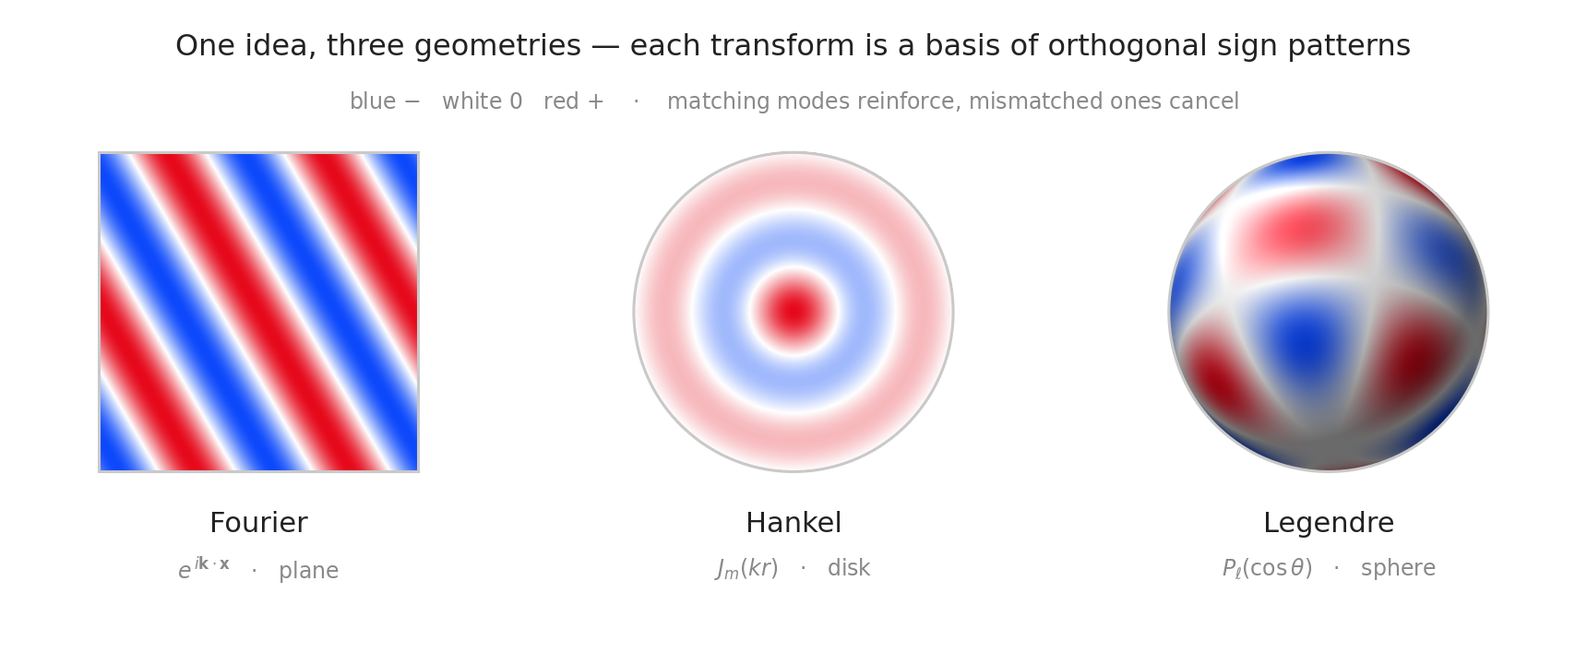
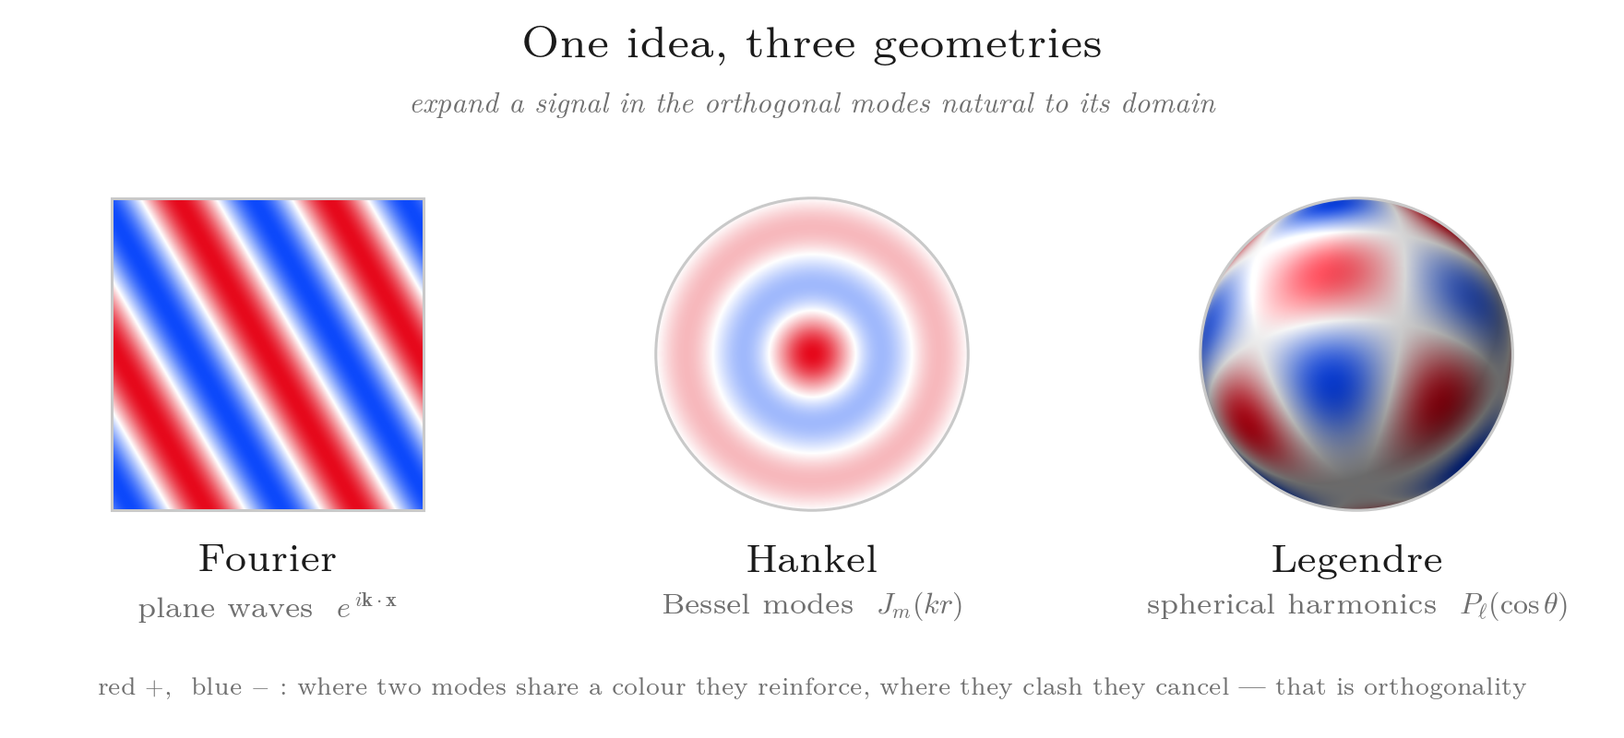
Polish spectral-transforms schematic: LaTeX fonts + richer captions
Use Latin Modern Roman text with Computer Modern math (mathtext cm) so the
kernels render crisply; name each basis family (plane waves / Bessel modes /
spherical harmonics) and reword the title, subtitle, and sign key.

Claude-Session: https://claude.ai/code/session_013g6Jis2ksDyqM4YC8tx1nv

diff --git a/docs/chap3.html b/docs/chap3.html
@@ -700,65 +700,70 @@ S_x(f) = \int_{-\infty}^{\infty} R_x(\tau)\,e^{-j 2\pi f \tau}\,d\tau
 <div class="code-copy-outer-scaffold"><div class="sourceCode" id="cb3"><pre class="sourceCode python code-with-copy"><code class="sourceCode python"><span id="cb3-1"><a href="#cb3-1" aria-hidden="true" tabindex="-1"></a><span class="im">from</span> matplotlib.colors <span class="im">import</span> LinearSegmentedColormap</span>
 <span id="cb3-2"><a href="#cb3-2" aria-hidden="true" tabindex="-1"></a><span class="im">from</span> scipy.special <span class="im">import</span> jn, jn_zeros, sph_harm</span>
 <span id="cb3-3"><a href="#cb3-3" aria-hidden="true" tabindex="-1"></a></span>
-<span id="cb3-4"><a href="#cb3-4" aria-hidden="true" tabindex="-1"></a><span class="co"># diverging map from the bright cycle: blue (0d49fb) &lt;-&gt; white &lt;-&gt; red (e6091c)</span></span>
-<span id="cb3-5"><a href="#cb3-5" aria-hidden="true" tabindex="-1"></a>cmap <span class="op">=</span> LinearSegmentedColormap.from_list(</span>
-<span id="cb3-6"><a href="#cb3-6" aria-hidden="true" tabindex="-1"></a>    <span class="st">'bwr2'</span>, [<span class="st">'#0d49fb'</span>, <span class="st">'#8aa9fc'</span>, <span class="st">'#ffffff'</span>, <span class="st">'#f28a91'</span>, <span class="st">'#e6091c'</span>])</span>
-<span id="cb3-7"><a href="#cb3-7" aria-hidden="true" tabindex="-1"></a>INK, FRAME <span class="op">=</span> <span class="st">'#222222'</span>, <span class="st">'#c9c9c9'</span></span>
-<span id="cb3-8"><a href="#cb3-8" aria-hidden="true" tabindex="-1"></a></span>
-<span id="cb3-9"><a href="#cb3-9" aria-hidden="true" tabindex="-1"></a><span class="kw">def</span> caption(ax, name, kern):</span>
-<span id="cb3-10"><a href="#cb3-10" aria-hidden="true" tabindex="-1"></a>    ax.text(<span class="fl">0.5</span>, <span class="op">-</span><span class="fl">0.10</span>, name, transform<span class="op">=</span>ax.transAxes, ha<span class="op">=</span><span class="st">'center'</span>, va<span class="op">=</span><span class="st">'top'</span>,</span>
-<span id="cb3-11"><a href="#cb3-11" aria-hidden="true" tabindex="-1"></a>            fontsize<span class="op">=</span><span class="dv">12</span>, color<span class="op">=</span>INK, fontweight<span class="op">=</span><span class="st">'medium'</span>)</span>
-<span id="cb3-12"><a href="#cb3-12" aria-hidden="true" tabindex="-1"></a>    ax.text(<span class="fl">0.5</span>, <span class="op">-</span><span class="fl">0.235</span>, kern, transform<span class="op">=</span>ax.transAxes, ha<span class="op">=</span><span class="st">'center'</span>, va<span class="op">=</span><span class="st">'top'</span>,</span>
-<span id="cb3-13"><a href="#cb3-13" aria-hidden="true" tabindex="-1"></a>            fontsize<span class="op">=</span><span class="dv">9</span>, color<span class="op">=</span><span class="st">'#8a8377'</span>)</span>
-<span id="cb3-14"><a href="#cb3-14" aria-hidden="true" tabindex="-1"></a></span>
-<span id="cb3-15"><a href="#cb3-15" aria-hidden="true" tabindex="-1"></a><span class="co"># an orthographic, Lambert-shaded sphere coloured by a real spherical harmonic</span></span>
-<span id="cb3-16"><a href="#cb3-16" aria-hidden="true" tabindex="-1"></a><span class="kw">def</span> shaded_sphere(l, m, tilt<span class="op">=-</span><span class="dv">58</span>, azim<span class="op">=</span><span class="dv">18</span>, npix<span class="op">=</span><span class="dv">620</span>, light<span class="op">=</span>(<span class="op">-</span><span class="fl">0.45</span>, <span class="fl">0.6</span>, <span class="fl">0.78</span>)):</span>
-<span id="cb3-17"><a href="#cb3-17" aria-hidden="true" tabindex="-1"></a>    g <span class="op">=</span> np.linspace(<span class="op">-</span><span class="dv">1</span>, <span class="dv">1</span>, npix)<span class="op">;</span> X, Y <span class="op">=</span> np.meshgrid(g, g)</span>
-<span id="cb3-18"><a href="#cb3-18" aria-hidden="true" tabindex="-1"></a>    inside <span class="op">=</span> X<span class="op">**</span><span class="dv">2</span> <span class="op">+</span> Y<span class="op">**</span><span class="dv">2</span> <span class="op">&lt;=</span> <span class="fl">1.0</span></span>
-<span id="cb3-19"><a href="#cb3-19" aria-hidden="true" tabindex="-1"></a>    Z <span class="op">=</span> np.sqrt(np.clip(<span class="dv">1</span> <span class="op">-</span> X<span class="op">**</span><span class="dv">2</span> <span class="op">-</span> Y<span class="op">**</span><span class="dv">2</span>, <span class="dv">0</span>, <span class="dv">1</span>))</span>
-<span id="cb3-20"><a href="#cb3-20" aria-hidden="true" tabindex="-1"></a>    t, az <span class="op">=</span> np.deg2rad(tilt), np.deg2rad(azim)</span>
-<span id="cb3-21"><a href="#cb3-21" aria-hidden="true" tabindex="-1"></a>    cx, sx, cz, sz <span class="op">=</span> np.cos(t), np.sin(t), np.cos(az), np.sin(az)</span>
-<span id="cb3-22"><a href="#cb3-22" aria-hidden="true" tabindex="-1"></a>    y1, z1 <span class="op">=</span> cx<span class="op">*</span>Y <span class="op">-</span> sx<span class="op">*</span>Z, sx<span class="op">*</span>Y <span class="op">+</span> cx<span class="op">*</span>Z                       <span class="co"># Rx(tilt)</span></span>
-<span id="cb3-23"><a href="#cb3-23" aria-hidden="true" tabindex="-1"></a>    sX, sY, sZ <span class="op">=</span> cz<span class="op">*</span>X <span class="op">-</span> sz<span class="op">*</span>y1, sz<span class="op">*</span>X <span class="op">+</span> cz<span class="op">*</span>y1, z1             <span class="co"># Rz(azim)</span></span>
-<span id="cb3-24"><a href="#cb3-24" aria-hidden="true" tabindex="-1"></a>    Yv <span class="op">=</span> sph_harm(m, l, np.arctan2(sY, sX), np.arccos(np.clip(sZ, <span class="op">-</span><span class="dv">1</span>, <span class="dv">1</span>))).real</span>
-<span id="cb3-25"><a href="#cb3-25" aria-hidden="true" tabindex="-1"></a>    Yn <span class="op">=</span> Yv<span class="op">/</span>np.nanmax(np.<span class="bu">abs</span>(np.where(inside, Yv, np.nan)))</span>
-<span id="cb3-26"><a href="#cb3-26" aria-hidden="true" tabindex="-1"></a>    rgb <span class="op">=</span> cmap(<span class="fl">0.5</span><span class="op">*</span>(Yn <span class="op">+</span> <span class="dv">1</span>))[..., :<span class="dv">3</span>]</span>
-<span id="cb3-27"><a href="#cb3-27" aria-hidden="true" tabindex="-1"></a>    L <span class="op">=</span> np.array(light)<span class="op">/</span>np.linalg.norm(light)</span>
-<span id="cb3-28"><a href="#cb3-28" aria-hidden="true" tabindex="-1"></a>    diff <span class="op">=</span> np.clip(X<span class="op">*</span>L[<span class="dv">0</span>] <span class="op">+</span> Y<span class="op">*</span>L[<span class="dv">1</span>] <span class="op">+</span> Z<span class="op">*</span>L[<span class="dv">2</span>], <span class="dv">0</span>, <span class="dv">1</span>)           <span class="co"># Lambert + soft specular</span></span>
-<span id="cb3-29"><a href="#cb3-29" aria-hidden="true" tabindex="-1"></a>    rgb <span class="op">=</span> rgb<span class="op">*</span>(<span class="fl">0.40</span> <span class="op">+</span> <span class="fl">0.60</span><span class="op">*</span>diff)[..., <span class="va">None</span>] <span class="op">+</span> (diff<span class="op">**</span><span class="dv">22</span><span class="op">*</span><span class="fl">0.18</span>)[..., <span class="va">None</span>]</span>
-<span id="cb3-30"><a href="#cb3-30" aria-hidden="true" tabindex="-1"></a>    <span class="cf">return</span> np.dstack([np.clip(rgb, <span class="dv">0</span>, <span class="dv">1</span>), inside.astype(<span class="bu">float</span>)])</span>
-<span id="cb3-31"><a href="#cb3-31" aria-hidden="true" tabindex="-1"></a></span>
-<span id="cb3-32"><a href="#cb3-32" aria-hidden="true" tabindex="-1"></a>plt.close()</span>
-<span id="cb3-33"><a href="#cb3-33" aria-hidden="true" tabindex="-1"></a>fig <span class="op">=</span> plt.figure(figsize<span class="op">=</span>(<span class="fl">8.6</span>, <span class="fl">3.6</span>), dpi<span class="op">=</span><span class="dv">150</span>)</span>
-<span id="cb3-34"><a href="#cb3-34" aria-hidden="true" tabindex="-1"></a>gs <span class="op">=</span> fig.add_gridspec(<span class="dv">1</span>, <span class="dv">3</span>, wspace<span class="op">=</span><span class="fl">0.14</span>, left<span class="op">=</span><span class="fl">0.015</span>, right<span class="op">=</span><span class="fl">0.985</span>, top<span class="op">=</span><span class="fl">0.78</span>, bottom<span class="op">=</span><span class="fl">0.28</span>)</span>
-<span id="cb3-35"><a href="#cb3-35" aria-hidden="true" tabindex="-1"></a>ax <span class="op">=</span> [fig.add_subplot(gs[<span class="dv">0</span>, i]) <span class="cf">for</span> i <span class="kw">in</span> <span class="bu">range</span>(<span class="dv">3</span>)]</span>
-<span id="cb3-36"><a href="#cb3-36" aria-hidden="true" tabindex="-1"></a>g <span class="op">=</span> np.linspace(<span class="op">-</span><span class="dv">1</span>, <span class="dv">1</span>, <span class="dv">600</span>)<span class="op">;</span> X, Y <span class="op">=</span> np.meshgrid(g, g)<span class="op">;</span> R <span class="op">=</span> np.hypot(X, Y)</span>
-<span id="cb3-37"><a href="#cb3-37" aria-hidden="true" tabindex="-1"></a>imkw <span class="op">=</span> <span class="bu">dict</span>(extent<span class="op">=</span>[<span class="op">-</span><span class="dv">1</span>, <span class="dv">1</span>, <span class="op">-</span><span class="dv">1</span>, <span class="dv">1</span>], origin<span class="op">=</span><span class="st">'lower'</span>, cmap<span class="op">=</span>cmap, vmin<span class="op">=-</span><span class="dv">1</span>, vmax<span class="op">=</span><span class="dv">1</span>)</span>
-<span id="cb3-38"><a href="#cb3-38" aria-hidden="true" tabindex="-1"></a>sq <span class="op">=</span> <span class="kw">lambda</span> a: a.add_patch(plt.Rectangle((<span class="op">-</span><span class="dv">1</span>, <span class="op">-</span><span class="dv">1</span>), <span class="dv">2</span>, <span class="dv">2</span>, fill<span class="op">=</span><span class="va">False</span>, ec<span class="op">=</span>FRAME, lw<span class="op">=</span><span class="fl">1.3</span>))</span>
-<span id="cb3-39"><a href="#cb3-39" aria-hidden="true" tabindex="-1"></a>ci <span class="op">=</span> <span class="kw">lambda</span> a, lw<span class="op">=</span><span class="fl">1.3</span>: a.add_patch(plt.Circle((<span class="dv">0</span>, <span class="dv">0</span>), <span class="dv">1</span>, fill<span class="op">=</span><span class="va">False</span>, ec<span class="op">=</span>FRAME, lw<span class="op">=</span>lw))</span>
-<span id="cb3-40"><a href="#cb3-40" aria-hidden="true" tabindex="-1"></a></span>
-<span id="cb3-41"><a href="#cb3-41" aria-hidden="true" tabindex="-1"></a><span class="co"># (1) Fourier — plane wave on a square (the plane)</span></span>
-<span id="cb3-42"><a href="#cb3-42" aria-hidden="true" tabindex="-1"></a>a <span class="op">=</span> np.deg2rad(<span class="dv">30</span>)</span>
-<span id="cb3-43"><a href="#cb3-43" aria-hidden="true" tabindex="-1"></a>ax[<span class="dv">0</span>].imshow(np.cos(<span class="fl">7.5</span><span class="op">*</span>(X<span class="op">*</span>np.cos(a) <span class="op">+</span> Y<span class="op">*</span>np.sin(a))), <span class="op">**</span>imkw)</span>
-<span id="cb3-44"><a href="#cb3-44" aria-hidden="true" tabindex="-1"></a>sq(ax[<span class="dv">0</span>])<span class="op">;</span> caption(ax[<span class="dv">0</span>], <span class="st">'Fourier'</span>, <span class="vs">r'</span><span class="dv">$</span><span class="vs">e</span><span class="dv">^</span><span class="vs">{</span><span class="ch">\,</span><span class="vs">i</span><span class="dv">\m</span><span class="vs">athbf{k}</span><span class="er">\</span><span class="vs">cdot</span><span class="dv">\m</span><span class="vs">athbf{x}}</span><span class="dv">$</span><span class="vs">   ·   plane'</span>)</span>
-<span id="cb3-45"><a href="#cb3-45" aria-hidden="true" tabindex="-1"></a></span>
-<span id="cb3-46"><a href="#cb3-46" aria-hidden="true" tabindex="-1"></a><span class="co"># (2) Hankel — concentric Bessel rings on the disk</span></span>
-<span id="cb3-47"><a href="#cb3-47" aria-hidden="true" tabindex="-1"></a>Fh <span class="op">=</span> jn(<span class="dv">0</span>, jn_zeros(<span class="dv">0</span>, <span class="dv">3</span>)[<span class="op">-</span><span class="dv">1</span>]<span class="op">*</span>R)<span class="op">;</span> Fh[R <span class="op">&gt;</span> <span class="dv">1</span>] <span class="op">=</span> np.nan</span>
-<span id="cb3-48"><a href="#cb3-48" aria-hidden="true" tabindex="-1"></a>ax[<span class="dv">1</span>].imshow(Fh, <span class="op">**</span>imkw)<span class="op">;</span> ci(ax[<span class="dv">1</span>])<span class="op">;</span> caption(ax[<span class="dv">1</span>], <span class="st">'Hankel'</span>, <span class="vs">r'</span><span class="dv">$</span><span class="vs">J_m</span><span class="kw">(</span><span class="vs">kr</span><span class="kw">)</span><span class="dv">$</span><span class="vs">   ·   disk'</span>)</span>
+<span id="cb3-4"><a href="#cb3-4" aria-hidden="true" tabindex="-1"></a><span class="co"># a schematic, so use the elegant LaTeX look: Latin Modern text + Computer Modern math</span></span>
+<span id="cb3-5"><a href="#cb3-5" aria-hidden="true" tabindex="-1"></a>plt.rcParams.update({<span class="st">'font.family'</span>: <span class="st">'serif'</span>,</span>
+<span id="cb3-6"><a href="#cb3-6" aria-hidden="true" tabindex="-1"></a>                     <span class="st">'font.serif'</span>: [<span class="st">'Latin Modern Roman'</span>, <span class="st">'CMU Serif'</span>, <span class="st">'DejaVu Serif'</span>],</span>
+<span id="cb3-7"><a href="#cb3-7" aria-hidden="true" tabindex="-1"></a>                     <span class="st">'mathtext.fontset'</span>: <span class="st">'cm'</span>})</span>
+<span id="cb3-8"><a href="#cb3-8" aria-hidden="true" tabindex="-1"></a><span class="co"># diverging map from the bright cycle: blue (0d49fb) &lt;-&gt; white &lt;-&gt; red (e6091c)</span></span>
+<span id="cb3-9"><a href="#cb3-9" aria-hidden="true" tabindex="-1"></a>cmap <span class="op">=</span> LinearSegmentedColormap.from_list(</span>
+<span id="cb3-10"><a href="#cb3-10" aria-hidden="true" tabindex="-1"></a>    <span class="st">'bwr2'</span>, [<span class="st">'#0d49fb'</span>, <span class="st">'#8aa9fc'</span>, <span class="st">'#ffffff'</span>, <span class="st">'#f28a91'</span>, <span class="st">'#e6091c'</span>])</span>
+<span id="cb3-11"><a href="#cb3-11" aria-hidden="true" tabindex="-1"></a>INK, FRAME, GREY <span class="op">=</span> <span class="st">'#1b1b1b'</span>, <span class="st">'#c9c9c9'</span>, <span class="st">'#6f6f6f'</span></span>
+<span id="cb3-12"><a href="#cb3-12" aria-hidden="true" tabindex="-1"></a></span>
+<span id="cb3-13"><a href="#cb3-13" aria-hidden="true" tabindex="-1"></a><span class="kw">def</span> caption(ax, name, basis):</span>
+<span id="cb3-14"><a href="#cb3-14" aria-hidden="true" tabindex="-1"></a>    ax.text(<span class="fl">0.5</span>, <span class="op">-</span><span class="fl">0.085</span>, name, transform<span class="op">=</span>ax.transAxes, ha<span class="op">=</span><span class="st">'center'</span>, va<span class="op">=</span><span class="st">'top'</span>,</span>
+<span id="cb3-15"><a href="#cb3-15" aria-hidden="true" tabindex="-1"></a>            fontsize<span class="op">=</span><span class="dv">15</span>, color<span class="op">=</span>INK)</span>
+<span id="cb3-16"><a href="#cb3-16" aria-hidden="true" tabindex="-1"></a>    ax.text(<span class="fl">0.5</span>, <span class="op">-</span><span class="fl">0.225</span>, basis, transform<span class="op">=</span>ax.transAxes, ha<span class="op">=</span><span class="st">'center'</span>, va<span class="op">=</span><span class="st">'top'</span>,</span>
+<span id="cb3-17"><a href="#cb3-17" aria-hidden="true" tabindex="-1"></a>            fontsize<span class="op">=</span><span class="fl">11.5</span>, color<span class="op">=</span>GREY)</span>
+<span id="cb3-18"><a href="#cb3-18" aria-hidden="true" tabindex="-1"></a></span>
+<span id="cb3-19"><a href="#cb3-19" aria-hidden="true" tabindex="-1"></a><span class="co"># an orthographic, Lambert-shaded sphere coloured by a real spherical harmonic</span></span>
+<span id="cb3-20"><a href="#cb3-20" aria-hidden="true" tabindex="-1"></a><span class="kw">def</span> shaded_sphere(l, m, tilt<span class="op">=-</span><span class="dv">58</span>, azim<span class="op">=</span><span class="dv">18</span>, npix<span class="op">=</span><span class="dv">620</span>, light<span class="op">=</span>(<span class="op">-</span><span class="fl">0.45</span>, <span class="fl">0.6</span>, <span class="fl">0.78</span>)):</span>
+<span id="cb3-21"><a href="#cb3-21" aria-hidden="true" tabindex="-1"></a>    g <span class="op">=</span> np.linspace(<span class="op">-</span><span class="dv">1</span>, <span class="dv">1</span>, npix)<span class="op">;</span> X, Y <span class="op">=</span> np.meshgrid(g, g)</span>
+<span id="cb3-22"><a href="#cb3-22" aria-hidden="true" tabindex="-1"></a>    inside <span class="op">=</span> X<span class="op">**</span><span class="dv">2</span> <span class="op">+</span> Y<span class="op">**</span><span class="dv">2</span> <span class="op">&lt;=</span> <span class="fl">1.0</span></span>
+<span id="cb3-23"><a href="#cb3-23" aria-hidden="true" tabindex="-1"></a>    Z <span class="op">=</span> np.sqrt(np.clip(<span class="dv">1</span> <span class="op">-</span> X<span class="op">**</span><span class="dv">2</span> <span class="op">-</span> Y<span class="op">**</span><span class="dv">2</span>, <span class="dv">0</span>, <span class="dv">1</span>))</span>
+<span id="cb3-24"><a href="#cb3-24" aria-hidden="true" tabindex="-1"></a>    t, az <span class="op">=</span> np.deg2rad(tilt), np.deg2rad(azim)</span>
+<span id="cb3-25"><a href="#cb3-25" aria-hidden="true" tabindex="-1"></a>    cx, sx, cz, sz <span class="op">=</span> np.cos(t), np.sin(t), np.cos(az), np.sin(az)</span>
+<span id="cb3-26"><a href="#cb3-26" aria-hidden="true" tabindex="-1"></a>    y1, z1 <span class="op">=</span> cx<span class="op">*</span>Y <span class="op">-</span> sx<span class="op">*</span>Z, sx<span class="op">*</span>Y <span class="op">+</span> cx<span class="op">*</span>Z                       <span class="co"># Rx(tilt)</span></span>
+<span id="cb3-27"><a href="#cb3-27" aria-hidden="true" tabindex="-1"></a>    sX, sY, sZ <span class="op">=</span> cz<span class="op">*</span>X <span class="op">-</span> sz<span class="op">*</span>y1, sz<span class="op">*</span>X <span class="op">+</span> cz<span class="op">*</span>y1, z1             <span class="co"># Rz(azim)</span></span>
+<span id="cb3-28"><a href="#cb3-28" aria-hidden="true" tabindex="-1"></a>    Yv <span class="op">=</span> sph_harm(m, l, np.arctan2(sY, sX), np.arccos(np.clip(sZ, <span class="op">-</span><span class="dv">1</span>, <span class="dv">1</span>))).real</span>
+<span id="cb3-29"><a href="#cb3-29" aria-hidden="true" tabindex="-1"></a>    Yn <span class="op">=</span> Yv<span class="op">/</span>np.nanmax(np.<span class="bu">abs</span>(np.where(inside, Yv, np.nan)))</span>
+<span id="cb3-30"><a href="#cb3-30" aria-hidden="true" tabindex="-1"></a>    rgb <span class="op">=</span> cmap(<span class="fl">0.5</span><span class="op">*</span>(Yn <span class="op">+</span> <span class="dv">1</span>))[..., :<span class="dv">3</span>]</span>
+<span id="cb3-31"><a href="#cb3-31" aria-hidden="true" tabindex="-1"></a>    L <span class="op">=</span> np.array(light)<span class="op">/</span>np.linalg.norm(light)</span>
+<span id="cb3-32"><a href="#cb3-32" aria-hidden="true" tabindex="-1"></a>    diff <span class="op">=</span> np.clip(X<span class="op">*</span>L[<span class="dv">0</span>] <span class="op">+</span> Y<span class="op">*</span>L[<span class="dv">1</span>] <span class="op">+</span> Z<span class="op">*</span>L[<span class="dv">2</span>], <span class="dv">0</span>, <span class="dv">1</span>)           <span class="co"># Lambert + soft specular</span></span>
+<span id="cb3-33"><a href="#cb3-33" aria-hidden="true" tabindex="-1"></a>    rgb <span class="op">=</span> rgb<span class="op">*</span>(<span class="fl">0.42</span> <span class="op">+</span> <span class="fl">0.58</span><span class="op">*</span>diff)[..., <span class="va">None</span>] <span class="op">+</span> (diff<span class="op">**</span><span class="dv">22</span><span class="op">*</span><span class="fl">0.16</span>)[..., <span class="va">None</span>]</span>
+<span id="cb3-34"><a href="#cb3-34" aria-hidden="true" tabindex="-1"></a>    <span class="cf">return</span> np.dstack([np.clip(rgb, <span class="dv">0</span>, <span class="dv">1</span>), inside.astype(<span class="bu">float</span>)])</span>
+<span id="cb3-35"><a href="#cb3-35" aria-hidden="true" tabindex="-1"></a></span>
+<span id="cb3-36"><a href="#cb3-36" aria-hidden="true" tabindex="-1"></a>plt.close()</span>
+<span id="cb3-37"><a href="#cb3-37" aria-hidden="true" tabindex="-1"></a>fig <span class="op">=</span> plt.figure(figsize<span class="op">=</span>(<span class="fl">8.8</span>, <span class="fl">4.0</span>))</span>
+<span id="cb3-38"><a href="#cb3-38" aria-hidden="true" tabindex="-1"></a>gs <span class="op">=</span> fig.add_gridspec(<span class="dv">1</span>, <span class="dv">3</span>, wspace<span class="op">=</span><span class="fl">0.12</span>, left<span class="op">=</span><span class="fl">0.015</span>, right<span class="op">=</span><span class="fl">0.985</span>, top<span class="op">=</span><span class="fl">0.74</span>, bottom<span class="op">=</span><span class="fl">0.30</span>)</span>
+<span id="cb3-39"><a href="#cb3-39" aria-hidden="true" tabindex="-1"></a>ax <span class="op">=</span> [fig.add_subplot(gs[<span class="dv">0</span>, i]) <span class="cf">for</span> i <span class="kw">in</span> <span class="bu">range</span>(<span class="dv">3</span>)]</span>
+<span id="cb3-40"><a href="#cb3-40" aria-hidden="true" tabindex="-1"></a>g <span class="op">=</span> np.linspace(<span class="op">-</span><span class="dv">1</span>, <span class="dv">1</span>, <span class="dv">600</span>)<span class="op">;</span> X, Y <span class="op">=</span> np.meshgrid(g, g)<span class="op">;</span> R <span class="op">=</span> np.hypot(X, Y)</span>
+<span id="cb3-41"><a href="#cb3-41" aria-hidden="true" tabindex="-1"></a>imkw <span class="op">=</span> <span class="bu">dict</span>(extent<span class="op">=</span>[<span class="op">-</span><span class="dv">1</span>, <span class="dv">1</span>, <span class="op">-</span><span class="dv">1</span>, <span class="dv">1</span>], origin<span class="op">=</span><span class="st">'lower'</span>, cmap<span class="op">=</span>cmap, vmin<span class="op">=-</span><span class="dv">1</span>, vmax<span class="op">=</span><span class="dv">1</span>)</span>
+<span id="cb3-42"><a href="#cb3-42" aria-hidden="true" tabindex="-1"></a>sq <span class="op">=</span> <span class="kw">lambda</span> a: a.add_patch(plt.Rectangle((<span class="op">-</span><span class="dv">1</span>, <span class="op">-</span><span class="dv">1</span>), <span class="dv">2</span>, <span class="dv">2</span>, fill<span class="op">=</span><span class="va">False</span>, ec<span class="op">=</span>FRAME, lw<span class="op">=</span><span class="fl">1.1</span>))</span>
+<span id="cb3-43"><a href="#cb3-43" aria-hidden="true" tabindex="-1"></a>ci <span class="op">=</span> <span class="kw">lambda</span> a, lw<span class="op">=</span><span class="fl">1.1</span>: a.add_patch(plt.Circle((<span class="dv">0</span>, <span class="dv">0</span>), <span class="dv">1</span>, fill<span class="op">=</span><span class="va">False</span>, ec<span class="op">=</span>FRAME, lw<span class="op">=</span>lw))</span>
+<span id="cb3-44"><a href="#cb3-44" aria-hidden="true" tabindex="-1"></a></span>
+<span id="cb3-45"><a href="#cb3-45" aria-hidden="true" tabindex="-1"></a><span class="co"># (1) Fourier — plane wave on a square (the plane)</span></span>
+<span id="cb3-46"><a href="#cb3-46" aria-hidden="true" tabindex="-1"></a>a <span class="op">=</span> np.deg2rad(<span class="dv">30</span>)</span>
+<span id="cb3-47"><a href="#cb3-47" aria-hidden="true" tabindex="-1"></a>ax[<span class="dv">0</span>].imshow(np.cos(<span class="fl">7.5</span><span class="op">*</span>(X<span class="op">*</span>np.cos(a) <span class="op">+</span> Y<span class="op">*</span>np.sin(a))), <span class="op">**</span>imkw)</span>
+<span id="cb3-48"><a href="#cb3-48" aria-hidden="true" tabindex="-1"></a>sq(ax[<span class="dv">0</span>])<span class="op">;</span> caption(ax[<span class="dv">0</span>], <span class="st">'Fourier'</span>, <span class="vs">r'plane waves  </span><span class="dv">$</span><span class="vs">e</span><span class="dv">^</span><span class="vs">{</span><span class="ch">\,</span><span class="vs">i</span><span class="dv">\m</span><span class="vs">athbf{k}</span><span class="er">\</span><span class="vs">cdot</span><span class="dv">\m</span><span class="vs">athbf{x}}</span><span class="dv">$</span><span class="vs">'</span>)</span>
 <span id="cb3-49"><a href="#cb3-49" aria-hidden="true" tabindex="-1"></a></span>
-<span id="cb3-50"><a href="#cb3-50" aria-hidden="true" tabindex="-1"></a><span class="co"># (3) Legendre / spherical harmonics — shaded sphere</span></span>
-<span id="cb3-51"><a href="#cb3-51" aria-hidden="true" tabindex="-1"></a>ax[<span class="dv">2</span>].imshow(shaded_sphere(<span class="dv">5</span>, <span class="dv">3</span>), extent<span class="op">=</span>[<span class="op">-</span><span class="dv">1</span>, <span class="dv">1</span>, <span class="op">-</span><span class="dv">1</span>, <span class="dv">1</span>], origin<span class="op">=</span><span class="st">'lower'</span>)</span>
-<span id="cb3-52"><a href="#cb3-52" aria-hidden="true" tabindex="-1"></a>ci(ax[<span class="dv">2</span>], <span class="fl">1.0</span>)<span class="op">;</span> caption(ax[<span class="dv">2</span>], <span class="st">'Legendre'</span>, <span class="vs">r'</span><span class="dv">$</span><span class="vs">P_</span><span class="er">\</span><span class="vs">ell</span><span class="kw">(</span><span class="er">\</span><span class="vs">cos</span><span class="ch">\t</span><span class="vs">heta</span><span class="kw">)</span><span class="dv">$</span><span class="vs">   ·   sphere'</span>)</span>
+<span id="cb3-50"><a href="#cb3-50" aria-hidden="true" tabindex="-1"></a><span class="co"># (2) Hankel — concentric Bessel rings on the disk</span></span>
+<span id="cb3-51"><a href="#cb3-51" aria-hidden="true" tabindex="-1"></a>Fh <span class="op">=</span> jn(<span class="dv">0</span>, jn_zeros(<span class="dv">0</span>, <span class="dv">3</span>)[<span class="op">-</span><span class="dv">1</span>]<span class="op">*</span>R)<span class="op">;</span> Fh[R <span class="op">&gt;</span> <span class="dv">1</span>] <span class="op">=</span> np.nan</span>
+<span id="cb3-52"><a href="#cb3-52" aria-hidden="true" tabindex="-1"></a>ax[<span class="dv">1</span>].imshow(Fh, <span class="op">**</span>imkw)<span class="op">;</span> ci(ax[<span class="dv">1</span>])<span class="op">;</span> caption(ax[<span class="dv">1</span>], <span class="st">'Hankel'</span>, <span class="vs">r'Bessel modes  </span><span class="dv">$</span><span class="vs">J_m</span><span class="kw">(</span><span class="vs">kr</span><span class="kw">)</span><span class="dv">$</span><span class="vs">'</span>)</span>
 <span id="cb3-53"><a href="#cb3-53" aria-hidden="true" tabindex="-1"></a></span>
-<span id="cb3-54"><a href="#cb3-54" aria-hidden="true" tabindex="-1"></a><span class="cf">for</span> a_ <span class="kw">in</span> ax:</span>
-<span id="cb3-55"><a href="#cb3-55" aria-hidden="true" tabindex="-1"></a>    a_.set_xlim(<span class="op">-</span><span class="fl">1.04</span>, <span class="fl">1.04</span>)<span class="op">;</span> a_.set_ylim(<span class="op">-</span><span class="fl">1.04</span>, <span class="fl">1.04</span>)<span class="op">;</span> a_.set_aspect(<span class="st">'equal'</span>)<span class="op">;</span> a_.axis(<span class="st">'off'</span>)</span>
-<span id="cb3-56"><a href="#cb3-56" aria-hidden="true" tabindex="-1"></a></span>
-<span id="cb3-57"><a href="#cb3-57" aria-hidden="true" tabindex="-1"></a>fig.text(<span class="fl">0.5</span>, <span class="fl">0.95</span>, <span class="st">'One idea, three geometries — each transform is a basis of orthogonal sign patterns'</span>,</span>
-<span id="cb3-58"><a href="#cb3-58" aria-hidden="true" tabindex="-1"></a>         ha<span class="op">=</span><span class="st">'center'</span>, va<span class="op">=</span><span class="st">'top'</span>, fontsize<span class="op">=</span><span class="dv">12</span>, color<span class="op">=</span>INK)</span>
-<span id="cb3-59"><a href="#cb3-59" aria-hidden="true" tabindex="-1"></a>fig.text(<span class="fl">0.5</span>, <span class="fl">0.865</span>, <span class="st">'blue $-$   white $0$   red $+$    ·    matching modes reinforce, mismatched ones cancel'</span>,</span>
-<span id="cb3-60"><a href="#cb3-60" aria-hidden="true" tabindex="-1"></a>         ha<span class="op">=</span><span class="st">'center'</span>, va<span class="op">=</span><span class="st">'top'</span>, fontsize<span class="op">=</span><span class="fl">8.8</span>, color<span class="op">=</span><span class="st">'#888888'</span>)</span>
-<span id="cb3-61"><a href="#cb3-61" aria-hidden="true" tabindex="-1"></a>fig.savefig(save_path <span class="op">+</span> <span class="st">'figure_spectral_transforms_overview.png'</span>,</span>
-<span id="cb3-62"><a href="#cb3-62" aria-hidden="true" tabindex="-1"></a>            bbox_inches<span class="op">=</span><span class="st">'tight'</span>, dpi<span class="op">=</span><span class="dv">150</span>, facecolor<span class="op">=</span><span class="st">'white'</span>)</span></code></pre></div><button title="Copy to Clipboard" class="code-copy-button"><i class="bi"></i></button></div>
+<span id="cb3-54"><a href="#cb3-54" aria-hidden="true" tabindex="-1"></a><span class="co"># (3) Legendre / spherical harmonics — shaded sphere</span></span>
+<span id="cb3-55"><a href="#cb3-55" aria-hidden="true" tabindex="-1"></a>ax[<span class="dv">2</span>].imshow(shaded_sphere(<span class="dv">5</span>, <span class="dv">3</span>), extent<span class="op">=</span>[<span class="op">-</span><span class="dv">1</span>, <span class="dv">1</span>, <span class="op">-</span><span class="dv">1</span>, <span class="dv">1</span>], origin<span class="op">=</span><span class="st">'lower'</span>)</span>
+<span id="cb3-56"><a href="#cb3-56" aria-hidden="true" tabindex="-1"></a>ci(ax[<span class="dv">2</span>])<span class="op">;</span> caption(ax[<span class="dv">2</span>], <span class="st">'Legendre'</span>, <span class="vs">r'spherical harmonics  </span><span class="dv">$</span><span class="vs">P_</span><span class="er">\</span><span class="vs">ell</span><span class="kw">(</span><span class="er">\</span><span class="vs">cos</span><span class="ch">\t</span><span class="vs">heta</span><span class="kw">)</span><span class="dv">$</span><span class="vs">'</span>)</span>
+<span id="cb3-57"><a href="#cb3-57" aria-hidden="true" tabindex="-1"></a></span>
+<span id="cb3-58"><a href="#cb3-58" aria-hidden="true" tabindex="-1"></a><span class="cf">for</span> a_ <span class="kw">in</span> ax:</span>
+<span id="cb3-59"><a href="#cb3-59" aria-hidden="true" tabindex="-1"></a>    a_.set_xlim(<span class="op">-</span><span class="fl">1.04</span>, <span class="fl">1.04</span>)<span class="op">;</span> a_.set_ylim(<span class="op">-</span><span class="fl">1.04</span>, <span class="fl">1.04</span>)<span class="op">;</span> a_.set_aspect(<span class="st">'equal'</span>)<span class="op">;</span> a_.axis(<span class="st">'off'</span>)</span>
+<span id="cb3-60"><a href="#cb3-60" aria-hidden="true" tabindex="-1"></a></span>
+<span id="cb3-61"><a href="#cb3-61" aria-hidden="true" tabindex="-1"></a>fig.text(<span class="fl">0.5</span>, <span class="fl">0.965</span>, <span class="st">'One idea, three geometries'</span>, ha<span class="op">=</span><span class="st">'center'</span>, va<span class="op">=</span><span class="st">'top'</span>, fontsize<span class="op">=</span><span class="dv">17</span>, color<span class="op">=</span>INK)</span>
+<span id="cb3-62"><a href="#cb3-62" aria-hidden="true" tabindex="-1"></a>fig.text(<span class="fl">0.5</span>, <span class="fl">0.875</span>, <span class="st">'expand a signal in the orthogonal modes natural to its domain'</span>,</span>
+<span id="cb3-63"><a href="#cb3-63" aria-hidden="true" tabindex="-1"></a>         ha<span class="op">=</span><span class="st">'center'</span>, va<span class="op">=</span><span class="st">'top'</span>, fontsize<span class="op">=</span><span class="fl">11.5</span>, color<span class="op">=</span>GREY, style<span class="op">=</span><span class="st">'italic'</span>)</span>
+<span id="cb3-64"><a href="#cb3-64" aria-hidden="true" tabindex="-1"></a>fig.text(<span class="fl">0.5</span>, <span class="fl">0.085</span>,</span>
+<span id="cb3-65"><a href="#cb3-65" aria-hidden="true" tabindex="-1"></a>         <span class="vs">r'red </span><span class="dv">$</span><span class="op">+</span><span class="dv">$</span><span class="vs">,  blue </span><span class="dv">$</span><span class="vs">-</span><span class="dv">$</span><span class="vs"> : where two modes share a colour they reinforce, where they clash they cancel — that is orthogonality'</span>,</span>
+<span id="cb3-66"><a href="#cb3-66" aria-hidden="true" tabindex="-1"></a>         ha<span class="op">=</span><span class="st">'center'</span>, va<span class="op">=</span><span class="st">'top'</span>, fontsize<span class="op">=</span><span class="fl">9.5</span>, color<span class="op">=</span>GREY)</span>
+<span id="cb3-67"><a href="#cb3-67" aria-hidden="true" tabindex="-1"></a>fig.savefig(save_path <span class="op">+</span> <span class="st">'figure_spectral_transforms_overview.png'</span>, dpi<span class="op">=</span><span class="dv">200</span>, facecolor<span class="op">=</span><span class="st">'white'</span>)</span></code></pre></div><button title="Copy to Clipboard" class="code-copy-button"><i class="bi"></i></button></div>
 </div>
 </div>
 </div>
